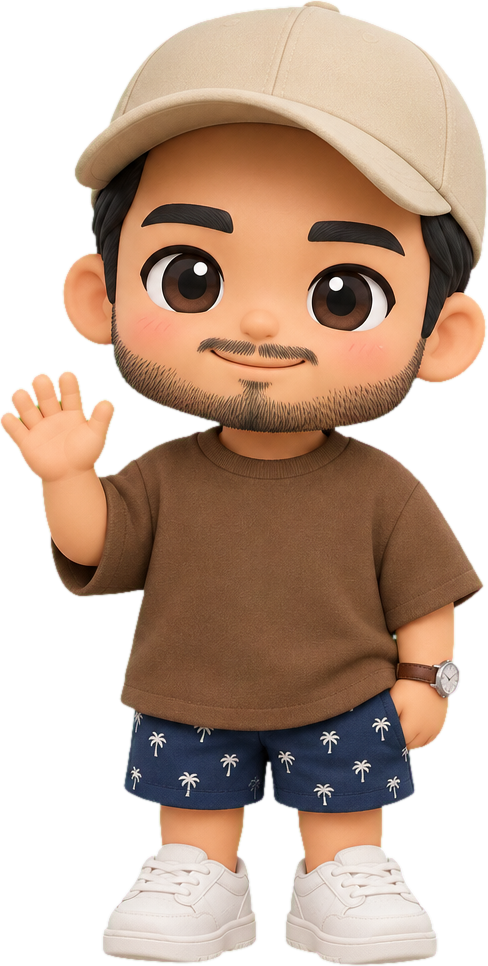
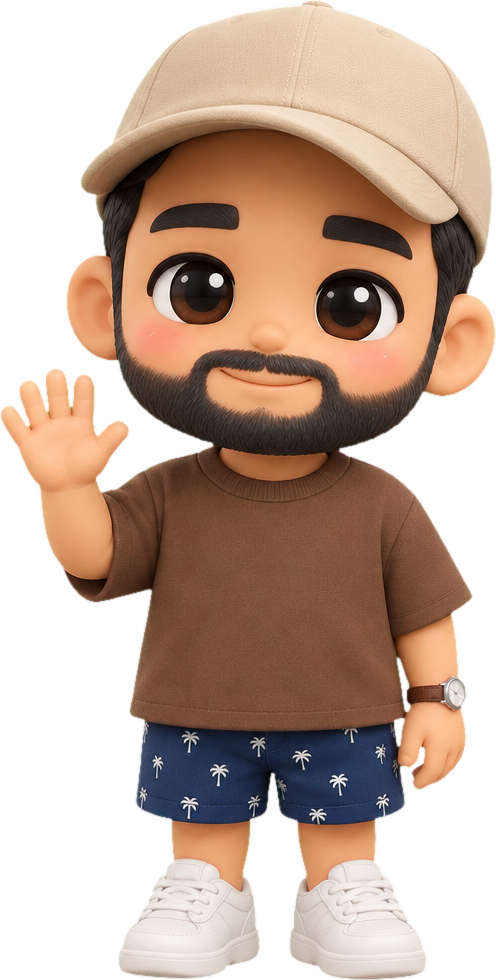
Fecha a barba do Wez, liga bigode e barba e deixa visível em todas as imagens
Claude-Session: https://claude.ai/code/session_019N354in63g1zD5HF5LCsMh

diff --git a/mascote/index.html b/mascote/index.html
@@ -177,8 +177,8 @@
 
 <header class="hero">
   <h1 class="hero-nome" aria-label="Wez">Wez</h1>
-  <img class="hero-boneco" src="renders/wez-hero-recorte.png" width="488" height="966"
-       alt="Wez como boneco de vinil: boné bege, barba feita cinza-escuro, queixo quadrado, camiseta marrom, bermuda azul com coqueirinhos, acenando">
+  <img class="hero-boneco" src="renders/wez-hero-recorte.png" width="496" height="980"
+       alt="Wez como boneco de vinil: boné bege, barba fechada cinza-escuro, queixo quadrado, camiseta marrom, bermuda azul com coqueirinhos, acenando">
   <div class="hero-legenda">
     <span>O mascote oficial do canal</span>
     <span>Role para conhecer ↓</span>
@@ -193,7 +193,7 @@
         <p class="dna-intro">Um boneco de vinil fofo, de cabeça grande e corpo pequeno, mas com os traços que todo mundo reconhece de longe.</p>
         <ul class="tracos">
           <li style="--cor: var(--bone)"><div><strong>Boné bege de aba curva</strong><span>Sempre na cabeça, levemente torto.</span></div></li>
-          <li style="--cor: var(--barba)"><div><strong>Barba feita, cinza-escuro</strong><span>Curtinha e rente, contorna a mandíbula e se liga ao bigode.</span></div></li>
+          <li style="--cor: var(--barba)"><div><strong>Barba fechada, cinza-escuro</strong><span>Curta e aparada, contorna a mandíbula inteira e se liga ao bigode.</span></div></li>
           <li style="--cor: var(--pele)"><div><strong>Queixo quadrado</strong><span>Mandíbula marcada, a marca registrada do rosto dele.</span></div></li>
           <li style="--cor: var(--cabelo)"><div><strong>Cabelo preto e sobrancelhas grossas</strong><span>Retas, escuras, dando o olhar calmo de sempre.</span></div></li>
           <li style="--cor: var(--cafe)"><div><strong>Camiseta marrom larguinha</strong><span>Gola careca, manga curta.</span></div></li>
@@ -253,7 +253,7 @@
       <div class="chao"></div>
       <div class="andador" id="andador">
         <div class="sombra"></div>
-        <img src="renders/wez-andando-recorte.png" width="494" height="965" alt="Wez andando">
+        <img src="renders/wez-andando-recorte.png" width="499" height="970" alt="Wez andando">
       </div>
     </div>
   </section>
